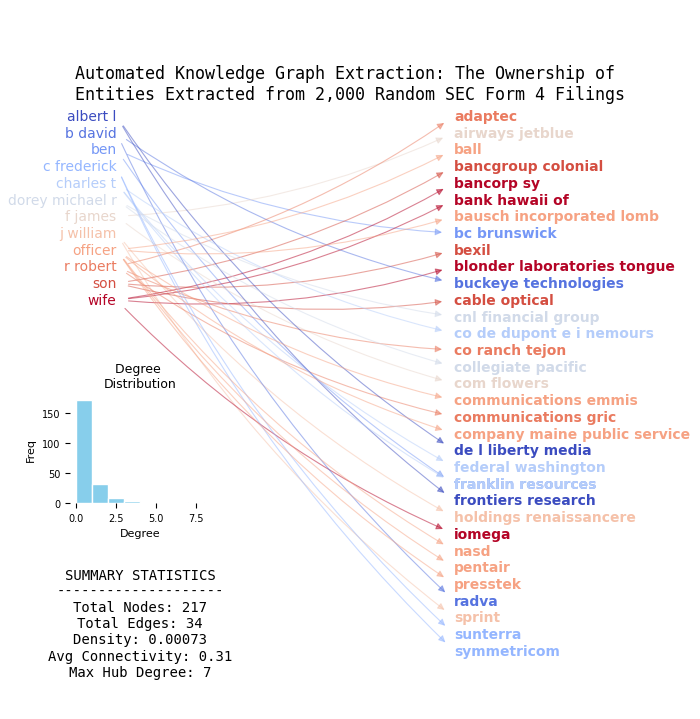
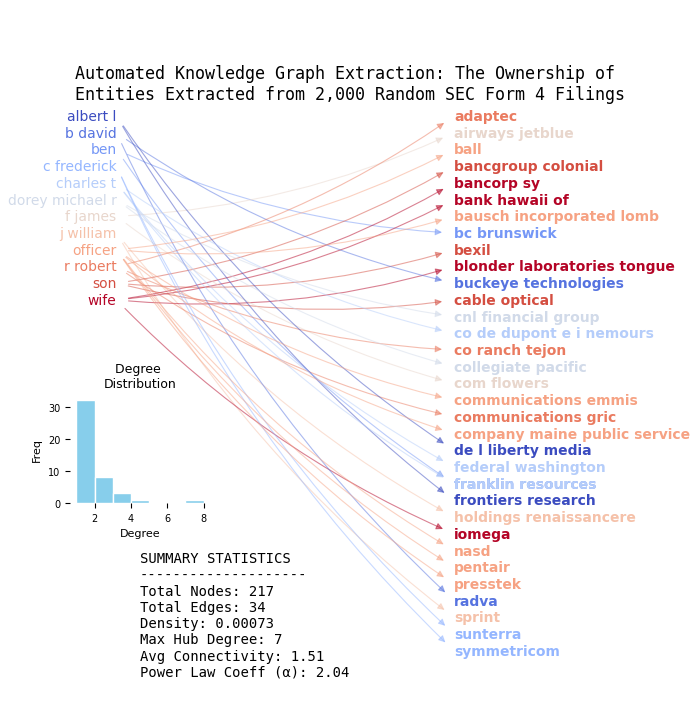
added new post 20260210

diff --git a/_projects/20260210.md b/_projects/20260210.md
@@ -9,11 +9,27 @@ giscus_comments: false
 ---
 
 <div class="row">
+
+    <div class="col-sm-12">
+        <p>
+            The complexity of modern financial markets is often obscured within the sheer volume of regulatory disclosures. By applying automated knowledge graph extraction to a random sample of 2,000 SEC Form 4 filings, a researcher can move beyond individual transactions to visualize the underlying architecture of the market. This analysis utilizes bipartite network mapping to distinguish between two fundamental types of market connectivity: professional affiliations and direct legal ownership. By quantifying metrics such as density and the Power Law coefficient ($\alpha$), the study analyzes how information and authority flow through seemingly disparate entities.
+        </p>
+    </div>
+</div>
+
+<hr>
+
+
+<div class="row">
     <div class="col-sm-7 mt-3 mt-md-0">
         <p>
-        Automated Knowledge Graph Extraction of 2,000 random SEC Form 4 filings reveals a sparse, decentralized <strong>Affiliation Network</strong>. With a Network Density of 0.00533, the data indicates that only a minute fraction of potential professional connections among the 57 identified nodes are realized, reflecting a fragmented landscape of institutional associations. The Degree Distribution follows a power-law trend: most entities maintain a single connection, while rare "hubs" reach a Max Hub Degree of 3. This profile suggests that while the broader market is loosely connected, specific actors serve as critical bridges for professional influence across organizations.
+        Automated Knowledge Graph Extraction of 2,000 random SEC Form 4 filings reveals a sparse, decentralized <strong>Affiliation Network</strong>. With a Network Density of 0.00533, the data indicates that only a minute fraction of potential professional connections among the 57 identified nodes are realized, reflecting a fragmented landscape of institutional associations. The Degree Distribution follows a power-law trend with a coefficient ($\alpha$) of 2.03, indicating that most entities maintain a single connection while rare hubs reach a Max Hub Degree of 3. This profile suggests that while the broader market is loosely connected, specific actors serve as critical bridges for professional influence across organizations.
         </p>
         <p>
+
+        
+
+
         The network topology distinguishes between independent clusters and interconnected institutional webs via divergent color mapping. An Average Connectivity of 0.60 highlights that most nodes operate in isolation or small pairs rather than dense cliques. By mapping these professional bonds, the analysis exposes the "social web" of the market, identifying sparse channels through which strategic information and oversight flow between separate entities.
         </p>
     </div>
@@ -30,7 +46,7 @@ giscus_comments: false
     </div>
     <div class="col-sm-7 mt-3 mt-md-0">
         <p>
-        The extraction simultaneously identifies a highly centralized <strong>Ownership Network</strong>. The system processed 217 total nodes connected by 34 direct ownership edges, resulting in a Network Density of 0.00073. This extremely low density confirms that ownership is concentrated within isolated silos rather than a distributed web. The Degree Distribution reveals a "long-tail" effect: the vast majority of nodes have one connection, yet the network is anchored by "Super-Owners" with a Max Hub Degree of 7.
+        The extraction simultaneously identifies a highly centralized <strong>Ownership Network</strong>. The system processed 217 total nodes connected by 34 direct ownership edges, resulting in an extremely low Network Density of 0.00073. The Power Law coefficient ($\alpha$) of 2.04 mathematically confirms a "heavy-tail" distribution where power is concentrated. The network is anchored by dominant "Super-Owners" with a Max Hub Degree of 7, representing entities or individuals who exert direct legal control over diverse corporate portfolios simultaneously.
         </p>
         <p>
         The graph illustrates a hub-and-spoke model, where central figures project authority across a wide array of target entities. With an Average Connectivity of 0.31, most participants remain unconnected to larger clusters, highlighting the exclusivity of multi-entity control. Divergent color mapping groups "Ownership Teams," revealing how specific insiders—including family members or designated officers—serve as primary nodes for complex structures. This converts static filings into a dynamic map of power concentration.
@@ -38,6 +54,14 @@ giscus_comments: false
     </div>
 </div>
 
+
+<div class="row"> 
+    <div class="col-sm-12"> 
+        <p> 
+            In conclusion, the structural contrast between these two networks highlights the different modalities of market participation. While both networks exhibit power-law characteristics with similar coefficients ($\alpha \approx 2.0$), the ownership network demonstrates a much higher degree of concentration with a Max Hub Degree of 7 compared to the affiliation network's 3. These findings demonstrate that automated graph analysis can effectively isolate the channels of professional influence from the hubs of legal authority, providing a clearer quantitative baseline for market oversight and regulatory policy. 
+        </p> 
+    </div> 
+</div>
 
 
 ### Related Explorations 
